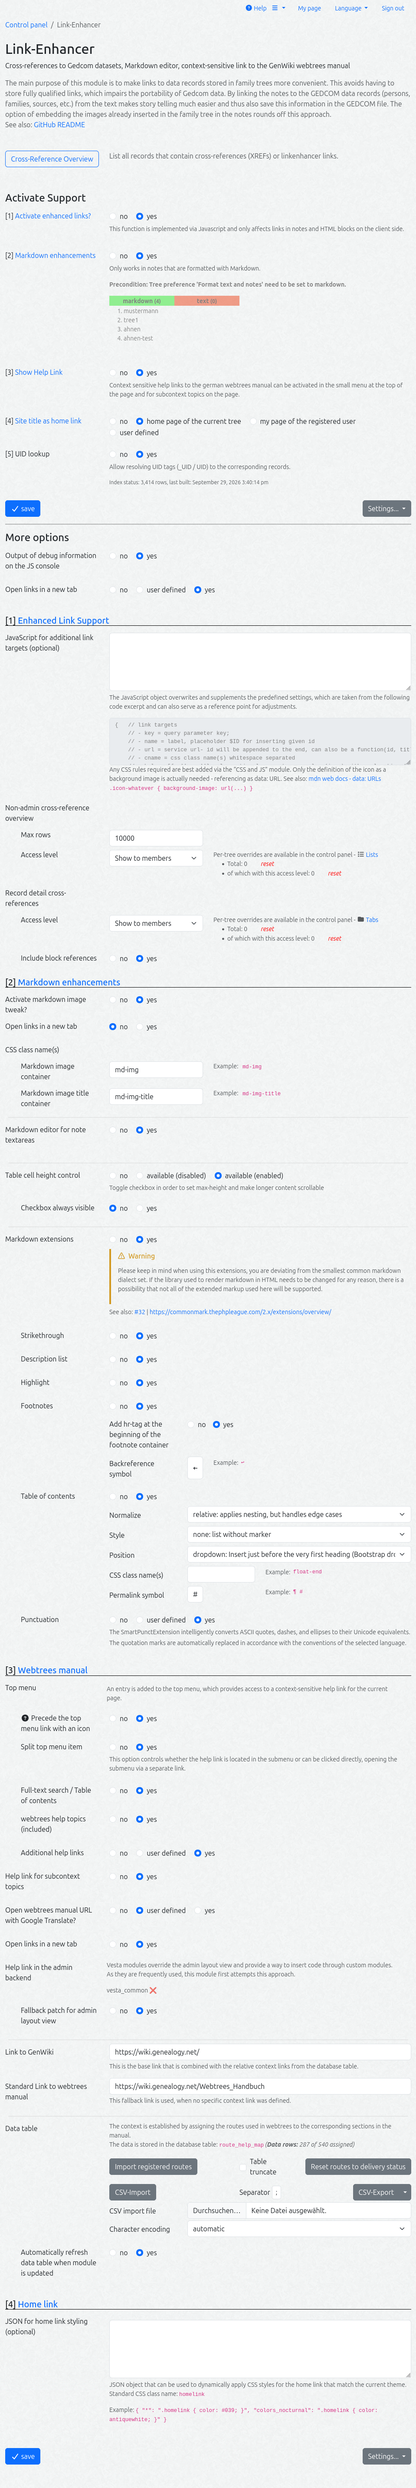
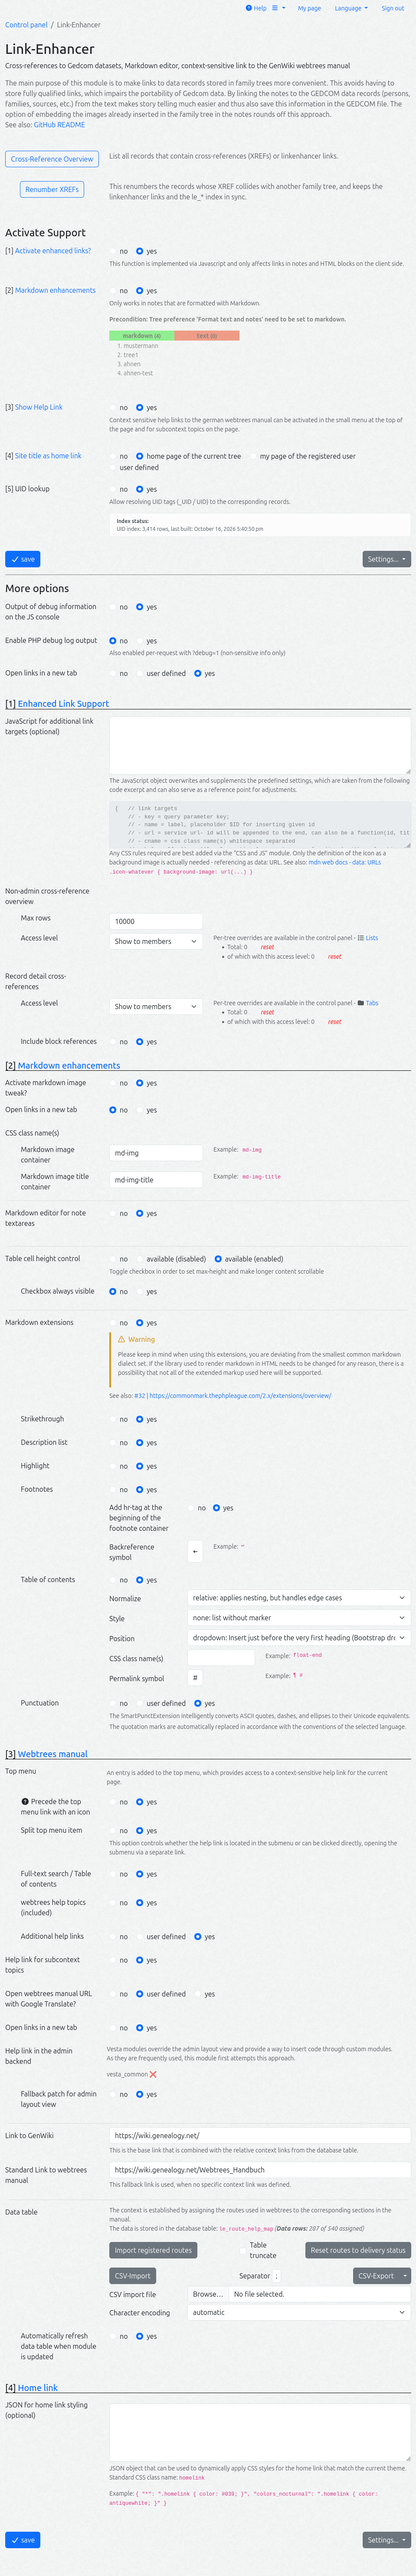
documentation

diff --git a/README.md b/README.md
@@ -2,7 +2,7 @@
 
 [TL;DR](#tlrdr) | [Description](#description) | [webtrees](#webtrees) | [Requirements](#requirements) | [Installation](#installation) | [Contributing](#contributing) | [Translation](#translation) | [Support](#support) | [License](#license)
 
-[![License: GPL v3](https://img.shields.io/badge/License-GPL%20v3-blue.svg)](http://www.gnu.org/licenses/gpl-3.0) ![webtrees major version](https://img.shields.io/badge/webtrees-v2.2.x-green) ![Latest Release](https://img.shields.io/github/v/release/bschwede/linkenhancer) ![Downloads](https://img.shields.io/github/downloads/bschwede/linkenhancer/total.svg)
+[![License: GPL v3](https://img.shields.io/badge/License-GPL%20v3-blue.svg)](http://www.gnu.org/licenses/gpl-3.0) ![webtrees major version](https://img.shields.io/badge/webtrees-v2.2|v2.3-green) ![Latest Release](https://img.shields.io/github/v/release/bschwede/linkenhancer) ![Downloads](https://img.shields.io/github/downloads/bschwede/linkenhancer/total.svg)
 
 
 > [!IMPORTANT]
@@ -40,7 +40,7 @@ This module wraps up some [examples mentioned in the German Webtrees Manual](htt
 
 The main purpose of this module is to make [**links to data records**](#enhancedlinks) stored in family trees more convenient. This avoids having to store fully qualified links, which impairs the portability of Gedcom data. By linking the notes to the GEDCOM data records (persons, families, sources, etc.) from the text makes story telling much easier and thus also save this information in the GEDCOM file (maybe this is an alternative for the [stories module](https://wiki.genealogy.net/Webtrees_Handbuch/Anleitung_f%C3%BCr_Besucher#Geschichten)). The option of embedding the [**images**](#mdimg) already inserted in the family tree in the notes rounds off this approach. The link function is controlled via the [anchor part of the URI](https://developer.mozilla.org/en-US/docs/Learn_web_development/Howto/Web_mechanics/What_is_a_URL), so it's no problem, if this module is not active - the url just points to the current webtrees page.
 
-For the admin there is an [**overview of cross-references**](#xref-overview), that lists all GEDCOM records and html based records stored in the `block / block_setting` tables (like html, faq, stories and vesta classic look and feel badges) which contain linkenhancer cross-references, classic cross-references and embedded picture references. The latter two references are only supported in GEDCOM records. For a configurable user access level, an overview can be provided for each tree. On the GEDCOM record detail view you can have an additional tab "cross-references" that lists incoming and outgoing references.
+For the admin there is an [**overview of cross-references**](#xref-overview), that lists all GEDCOM records and html based records stored in the `block / block_setting` tables (like html, faq, stories and vesta classic look and feel badges) which contain linkenhancer cross-references, classic cross-references and embedded picture references. The latter two references are only supported in GEDCOM records. For a configurable user access level, an overview can be provided for each tree. On the GEDCOM record detail view you can have an additional tab "cross-references" that lists incoming and outgoing references. The records xref and uids entries (which are sometimes truncated by webtrees core) are also listed to make it easier to reuse them as references in notes.
 
 Additionally there are some goodies more or less related with links:
 
@@ -453,6 +453,12 @@ Just activate the option "Output of debug information on the JS console" in orde
 <a name="xref-overview"></a>
 ### Cross-reference overview
 
+There are three types of overviews:
+
+1. overview about all data for the admin,
+2. tree based overview and
+3. record based overview on the record details view (tab or modal).
+
 The cross-reference overview admin page (Control panel → LinkEnhancer → Cross-reference overview) is a server-side paginated DataTable. It lists all records that contain classic `@XREF@` cross-references or linkenhancer links, with a per-record link inventory. Optional filters: referenced XREF (only available while a fresh link index is active - in live-scan mode the field is hidden, because it would only be a coarse pre-filter there - no classic references are found), record type, tree, and the number of tokens shown per link class (all / 5 / 10 / 20, default 5). The XREF cell shows the tree name as a second muted line; the type is its own sortable column. Each inventory token is displayed as a short display context (snippet) with the link token itself in bold.
 
 Optionally you can enable an user overview per tree and a list of incoming and outgoing references per GEDCOM record.
@@ -588,11 +594,11 @@ This can be hosted on your own server by following the [Install instructions](ht
 <a name="requirements"></a>
 ## Requirements
 
-This module requires **webtrees** version 2.2.
+This module requires **webtrees** version 2.2 or 2.3.
 This module has the same requirements as [webtrees#system-requirements](https://github.com/fisharebest/webtrees#system-requirements).
 
-This module was tested with **webtrees** version 2.2.4
-and build-in themes and some other custom modules.
+It was initially created for version 2.2.4, since linkenhancer 1.6.1 it should also work with webtrees 2.3.
+Test were usually run with build-in themes and some other custom modules.
 
 > [!TIP]
 > It's recommended installing the [Cronjob](https://github.com/bschwede/wt-cronjob) module as well.
